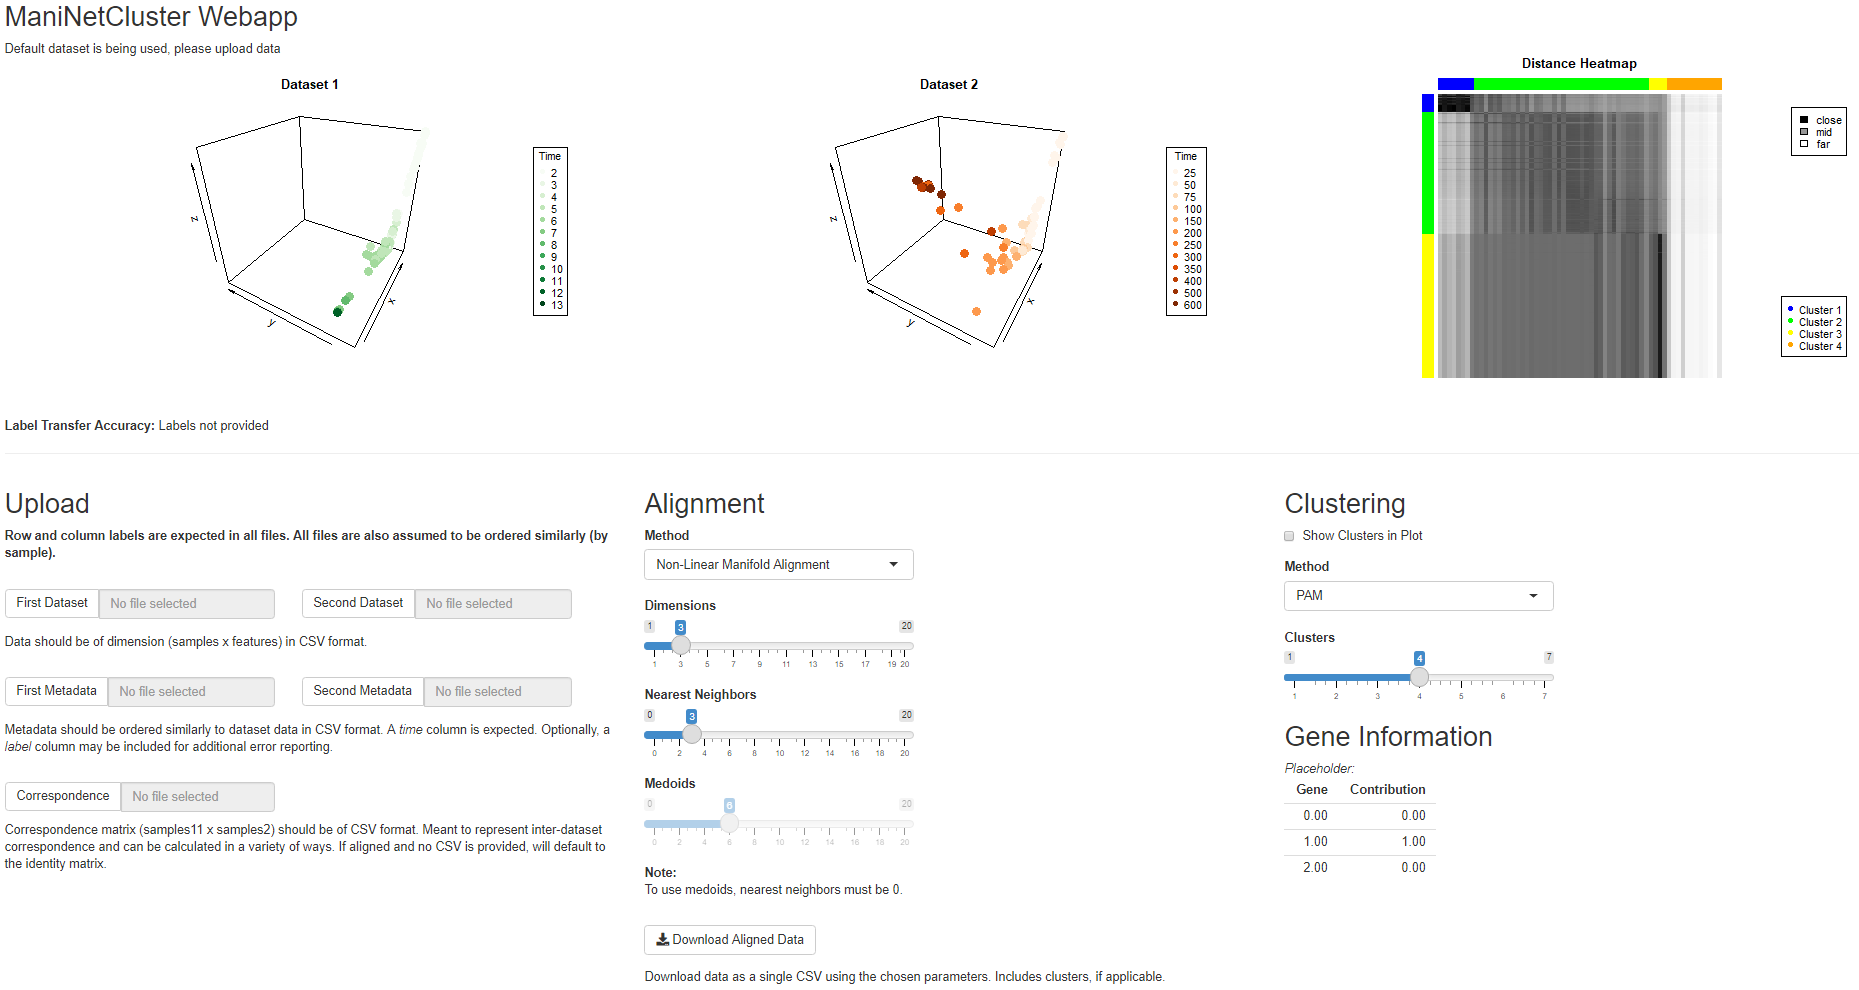
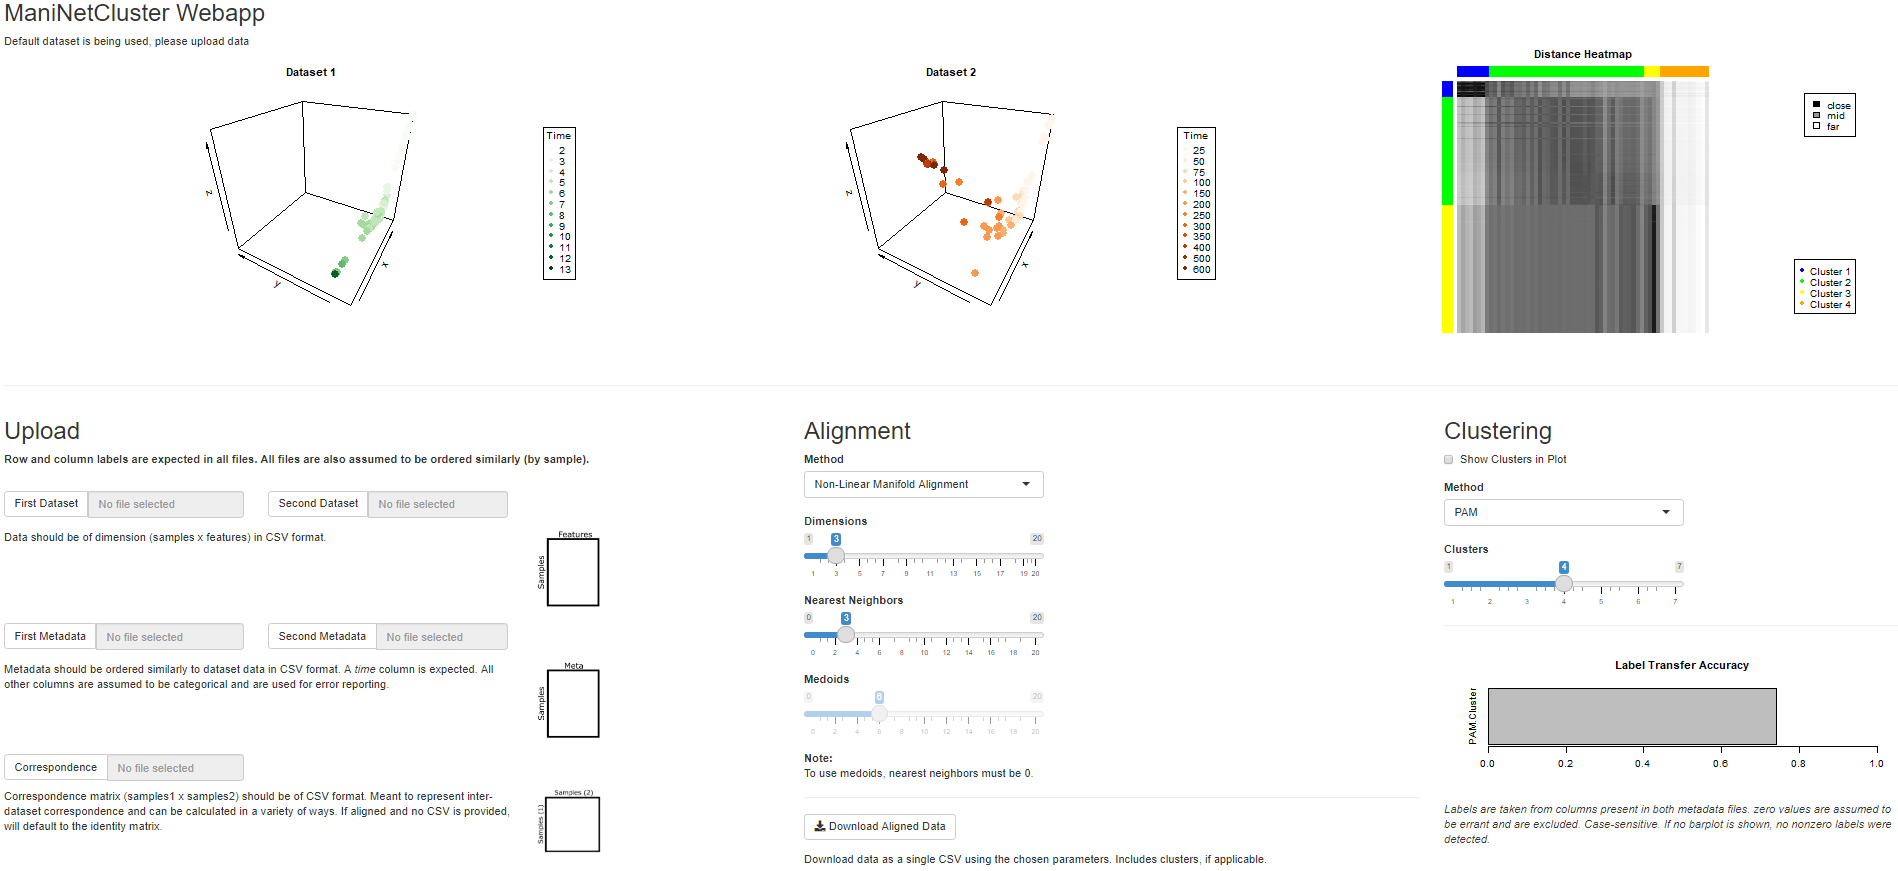
UI and error analysis bar plot

diff --git a/CHANGELOG.md b/CHANGELOG.md
@@ -1,3 +1,10 @@
+# 1.3.1
+- Remove 'None' clustering
+- Add www folder
+- Add helping images
+- Additional metadata error analysis and flexibility
+ - Added bar plot for label transfer accuracy
+
 # 1.3.0
 - Clustering visualization fix
 - Visualization QOL updates
